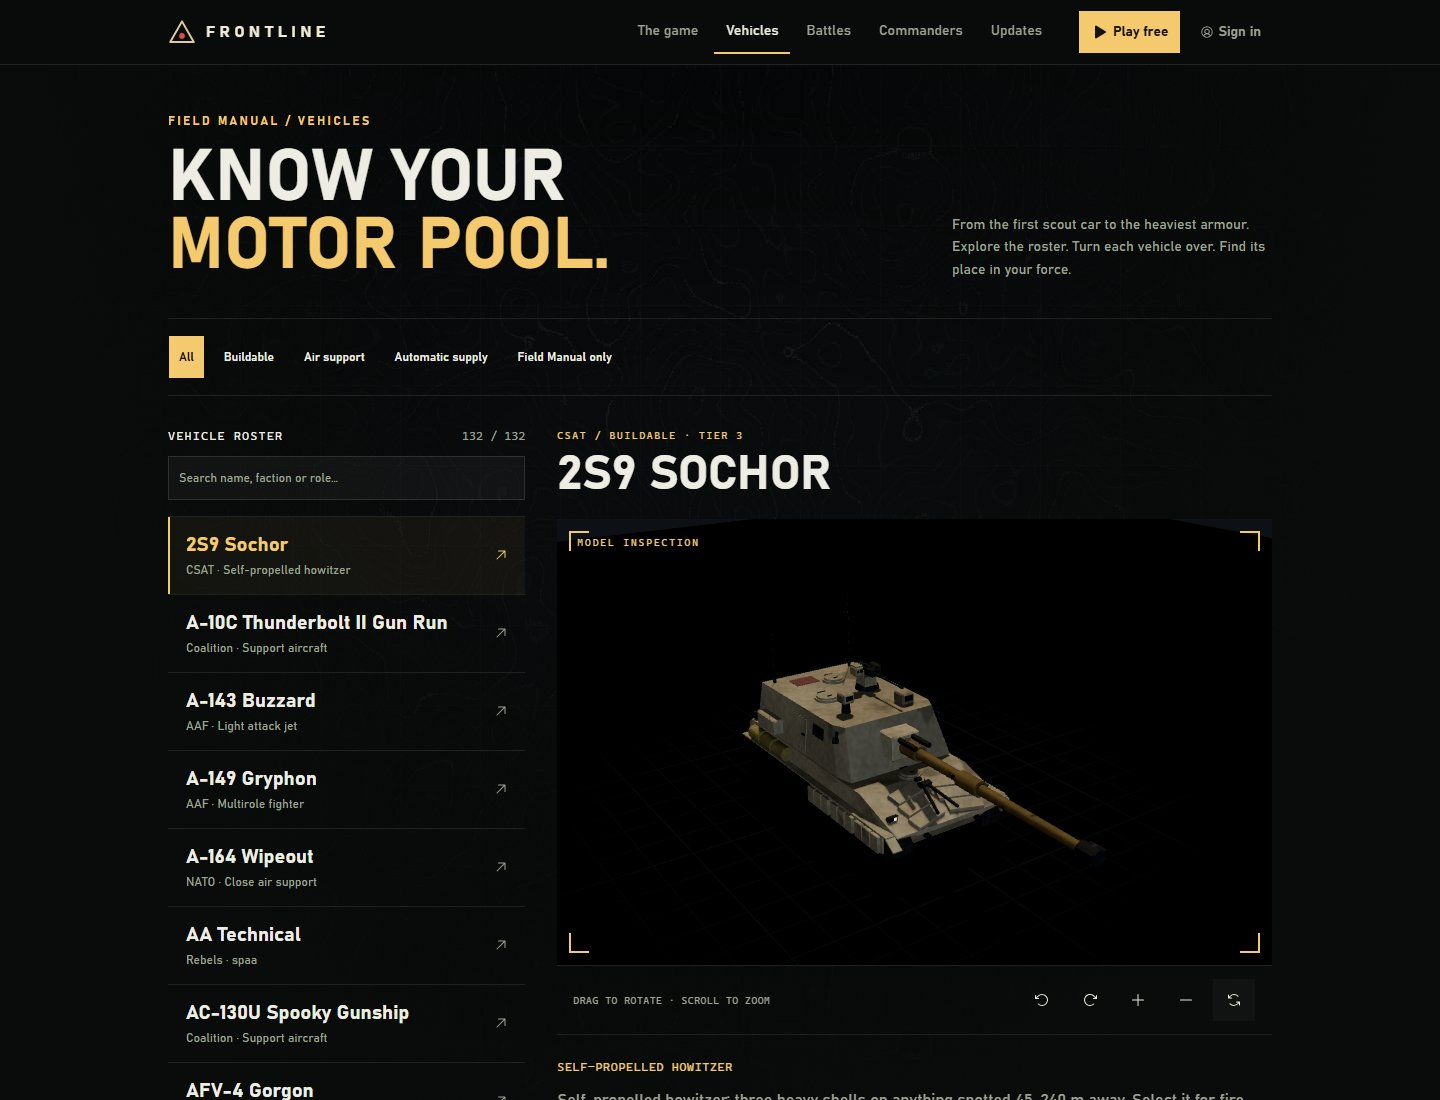
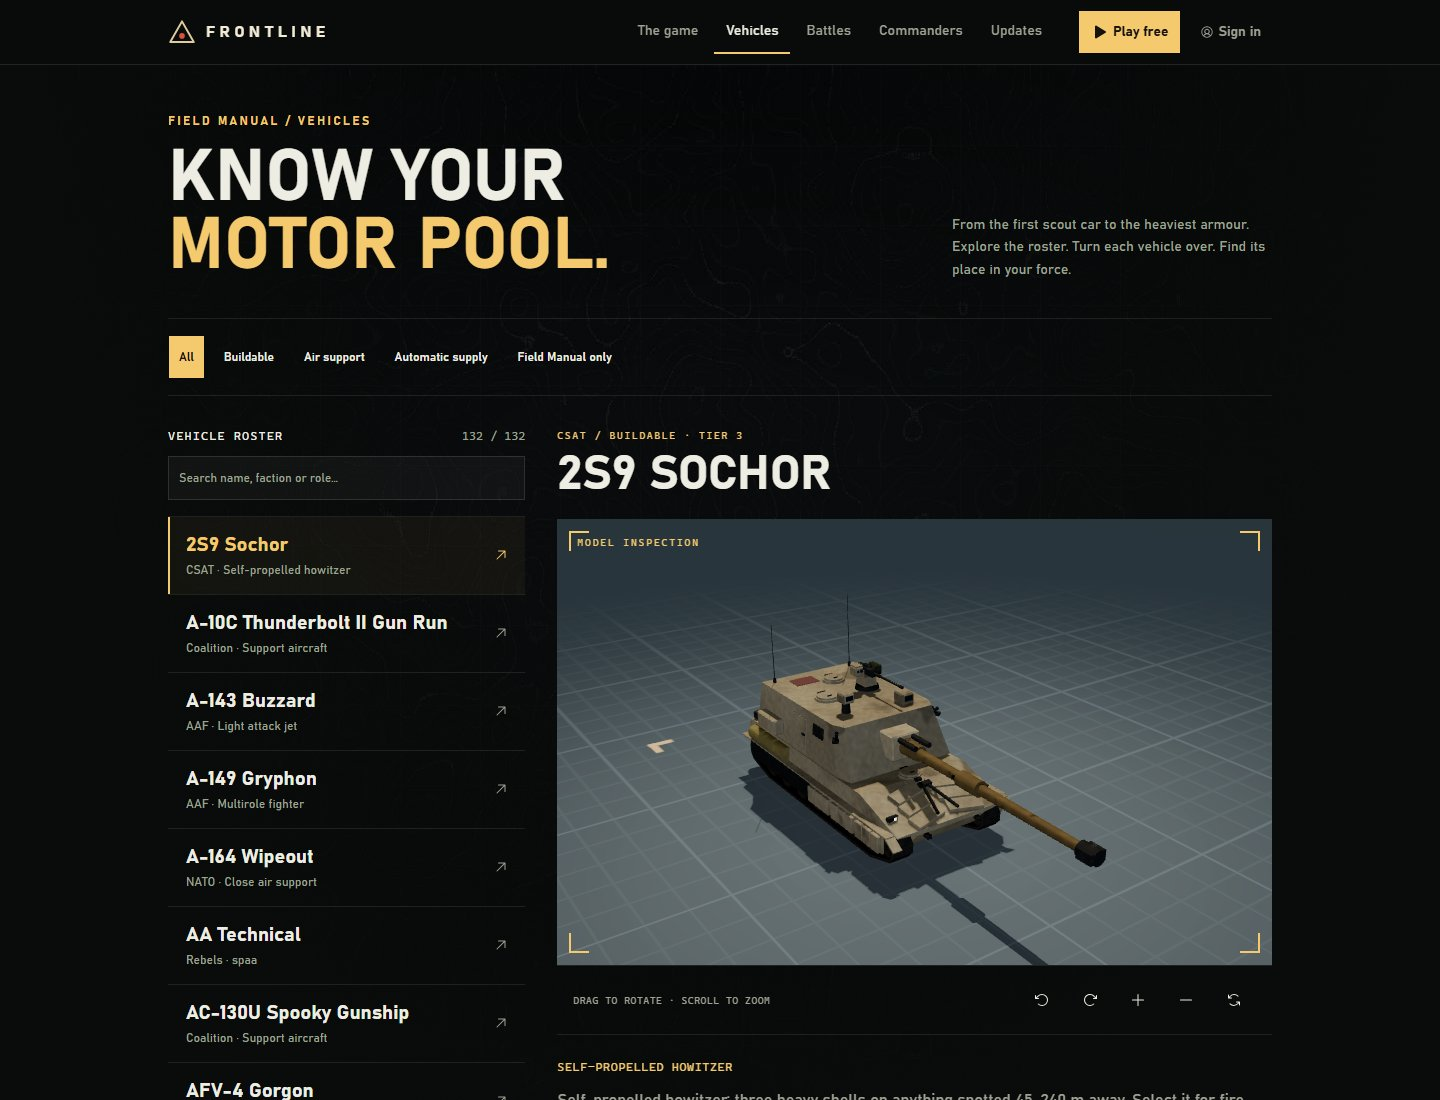
Give the shared Field Manual stage a slate survey bay
Add a fading grid and scaled bay markings, soften the backdrop, and improve model fill light. Match floor color across browser and desktop renderers without adding texture assets. Include before and after captures.

Changed region(s): [[0.375, 0.4636, 0.9062, 0.8964]]

diff --git a/changelog/unreleased/website-field-manual.md b/changelog/unreleased/website-field-manual.md
@@ -6,8 +6,13 @@ kind = "new"
 [[screenshots]]
 file = "desktop.jpg"
 caption = "Browse the roster and inspect the game's vehicle models on the website."
+
+[[screenshots]]
+file = "manual.jpg"
+caption = "The in-game Field Manual shares the new slate survey bay and model lighting."
 +++
 
 - Search vehicles by name, faction or role and filter by availability.
 - Switch vehicles without restarting the 3D viewer. Compressed browser assets reduce the first download.
+- Inspect models in a new slate survey bay, with a fading grid, warm corner markings and clearer lighting, shared by the website and the in-game Field Manual.
 - Select a vehicle to inspect its 3D model directly beside the roster. Drag to turn it, scroll to zoom, or use the camera buttons with a keyboard. The page uses the site's familiar styling around the game's own model stage.
